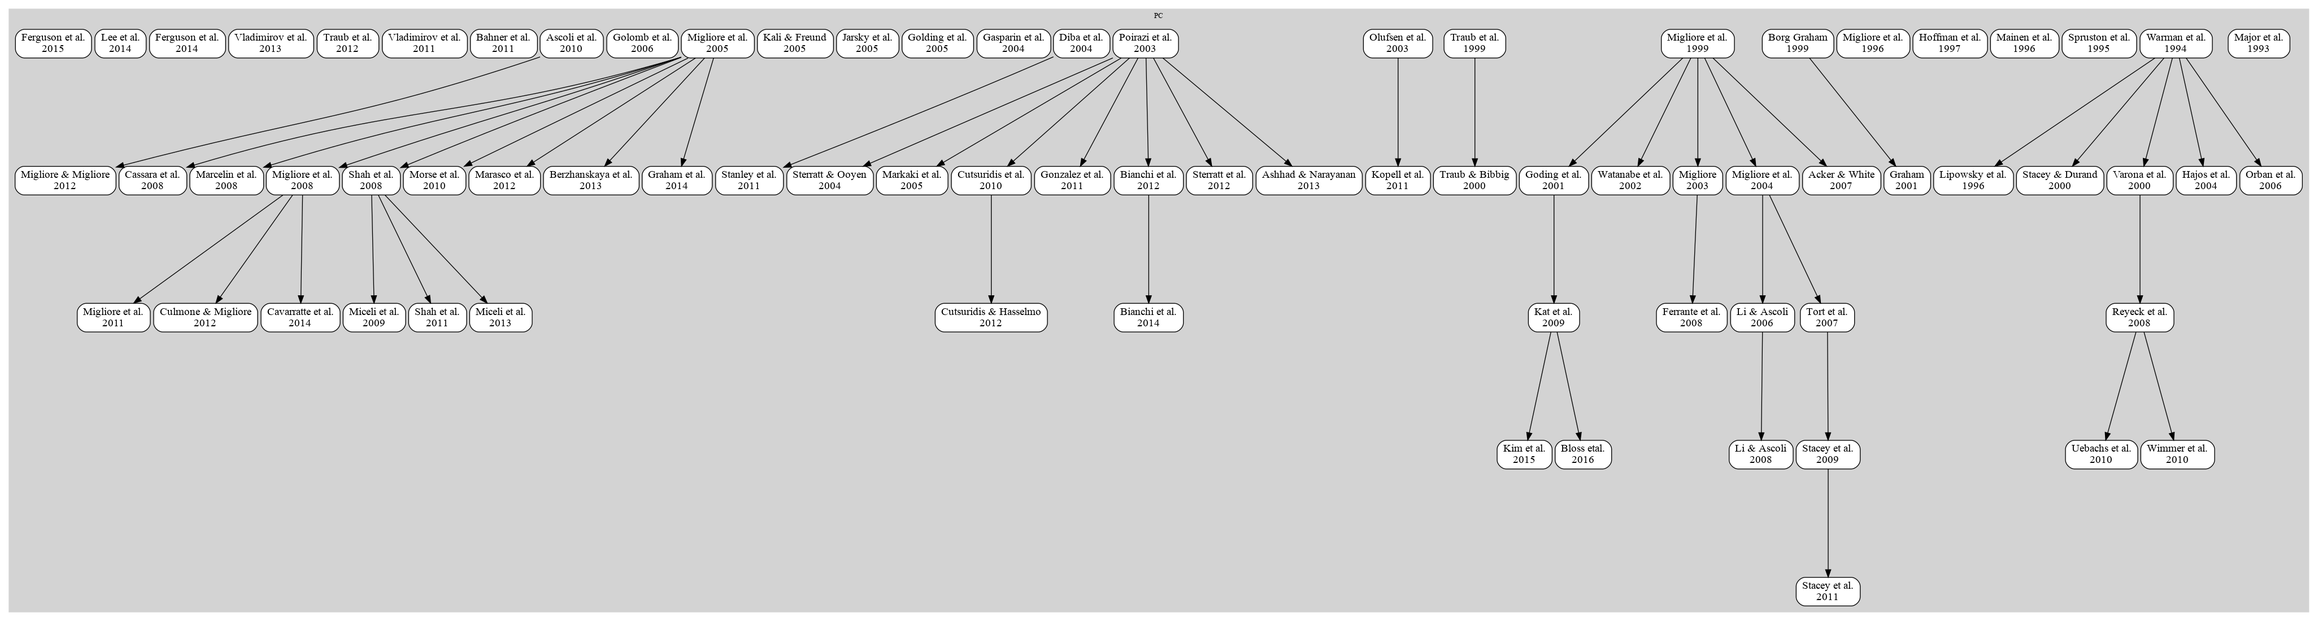
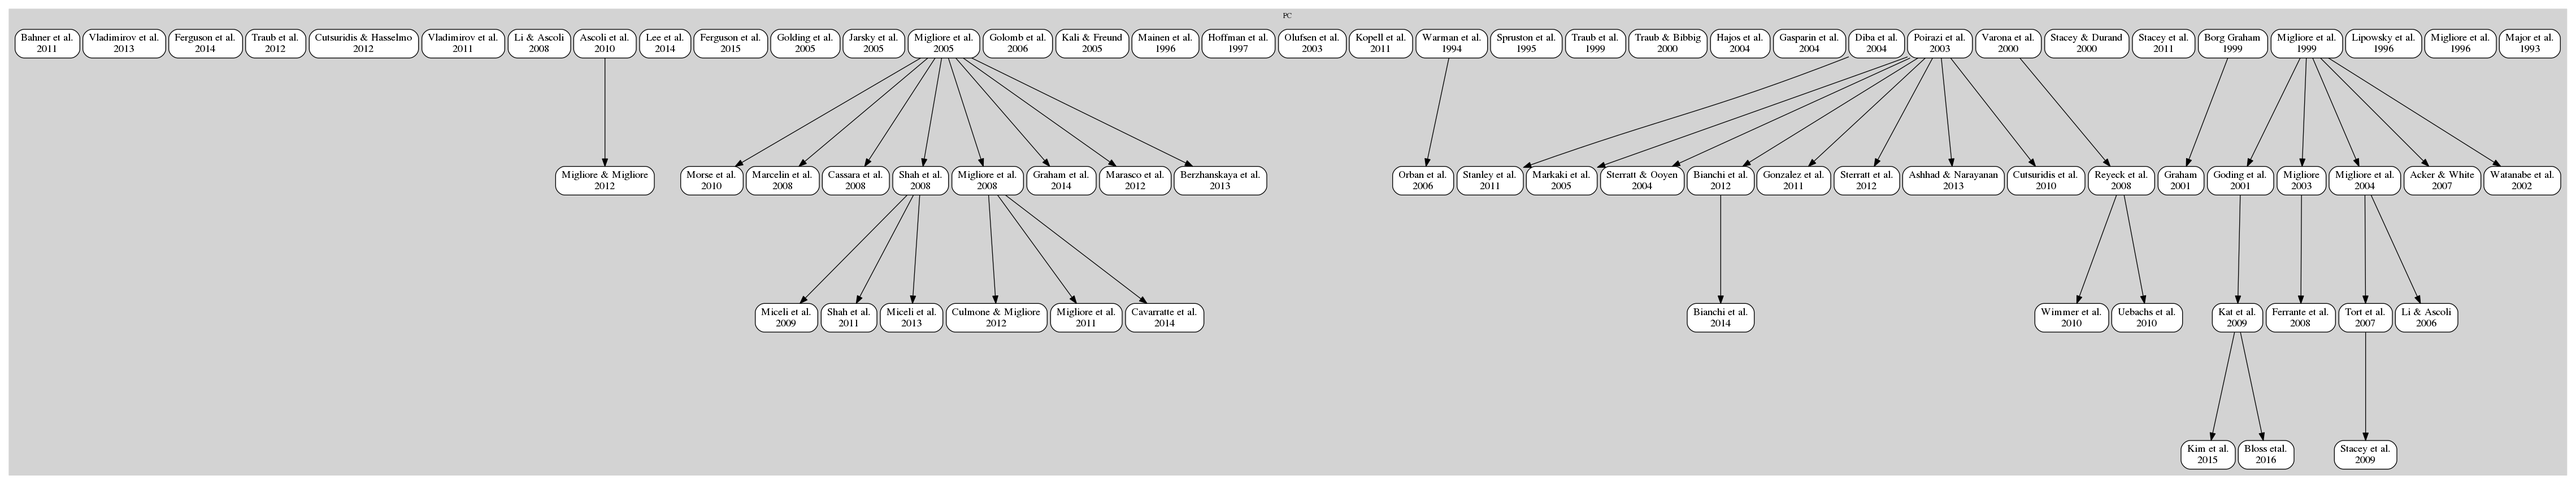
Minor changes & regenerated pngs

diff --git a/Parse.py b/Parse.py
@@ -19,7 +19,8 @@ if __name__ == '__main__':
     all_celltypes = []
     all_years = []
     output_mode = 'celltypes' #celltypes or years
-    max_lines = 148 # useful for testing
+    #output_mode = 'years'
+    max_lines = 448 # useful for testing
     
     for line in open(csv_file):
         if not line.startswith(ID) and max_lines>0:

diff --git a/README.md b/README.md
@@ -20,6 +20,24 @@ This initiative resulted from a [Human Brain Project](http://humanbrainproject.e
 
 ![](https://raw.githubusercontent.com/OpenSourceBrain/CommunityModellingCA1/master/ca1_pcs.jpg)
 
-Note: based on [CA1model.csv](https://github.com/OpenSourceBrain/CommunityModellingCA1/blob/master/CA1Models.csv) a script (improved version of [Parse.py](https://github.com/OpenSourceBrain/CommunityModellingCA1/blob/master/Parse.py) or javascript) should reproduce the figures (CA1_interneurons.jpg, CA1_PCs.jpg). See issue #4.
 
-**Is there a model missing??** Please [open an issue](https://github.com/OpenSourceBrain/CommunityModellingCA1/issues/new) and let us know!
+-----------------------------------------------------------------------------
+
+#### CSV file of all models
+
+[CA1model.csv](https://github.com/OpenSourceBrain/CommunityModellingCA1/blob/master/CA1Models.csv) contains a database of all known published CA1 cell models. 
+
+**Is there a model missing?? Please [open an issue](https://github.com/OpenSourceBrain/CommunityModellingCA1/issues/new) and let us know!**
+
+We have created a script ([Parse.py](https://github.com/OpenSourceBrain/CommunityModellingCA1/blob/master/Parse.py)) which will eventually be able to generate the above 
+figures automatically. See [issue #4](https://github.com/OpenSourceBrain/CommunityModellingCA1/issues/4) for progress with this.
+
+For now, the figures produced are:
+
+*Interneurons:*
+
+![](CA1Models_IN.png)
+
+*Pyramidal cell models:*
+
+![](CA1Models_PC.png)
